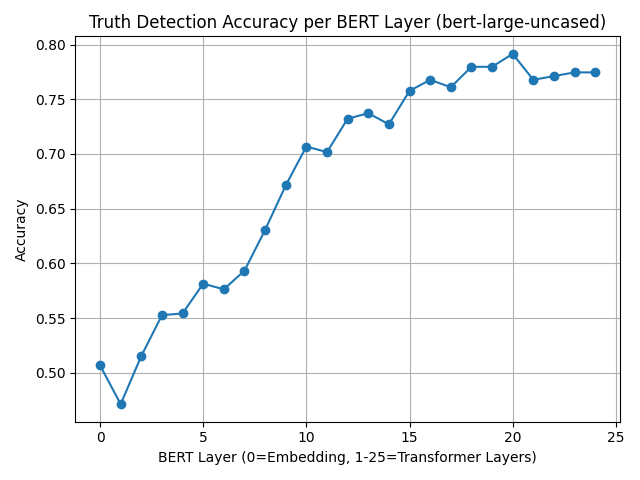
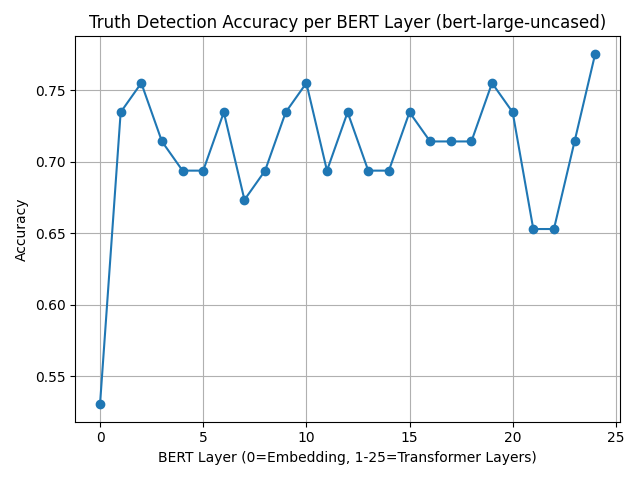
Working

diff --git a/20250422 Toy Model/main.py b/20250422 Toy Model/main.py
@@ -85,14 +85,14 @@ if dataset_source in ["truefalse", "all"]:
 
     print("📥 Loading TRUEFALSE (pminervini/true-false)...")
     tf_splits = [
-        # "animals",
+        "animals",
         "cities",
-        # "companies",
+        "companies",
         # "cieacf",
         "inventions",
         "facts",
-        # "elements",
-        # "generated"
+        "elements",
+        "generated"
     ]
 
     datasets_list = []
